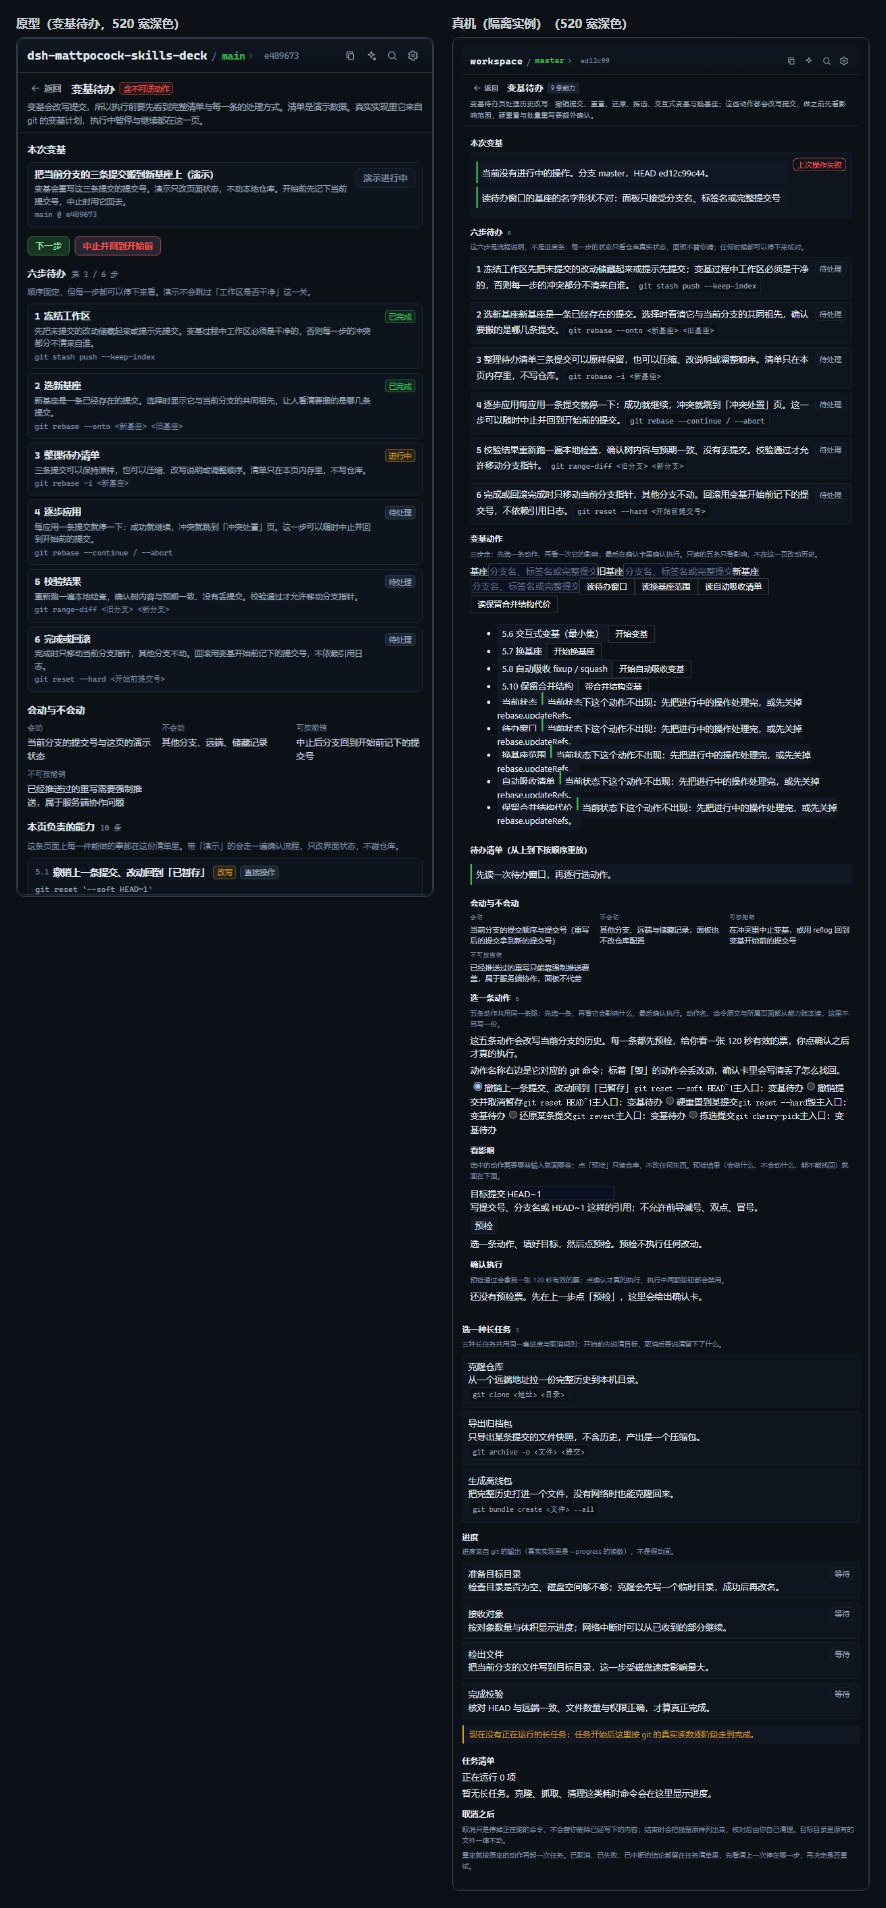
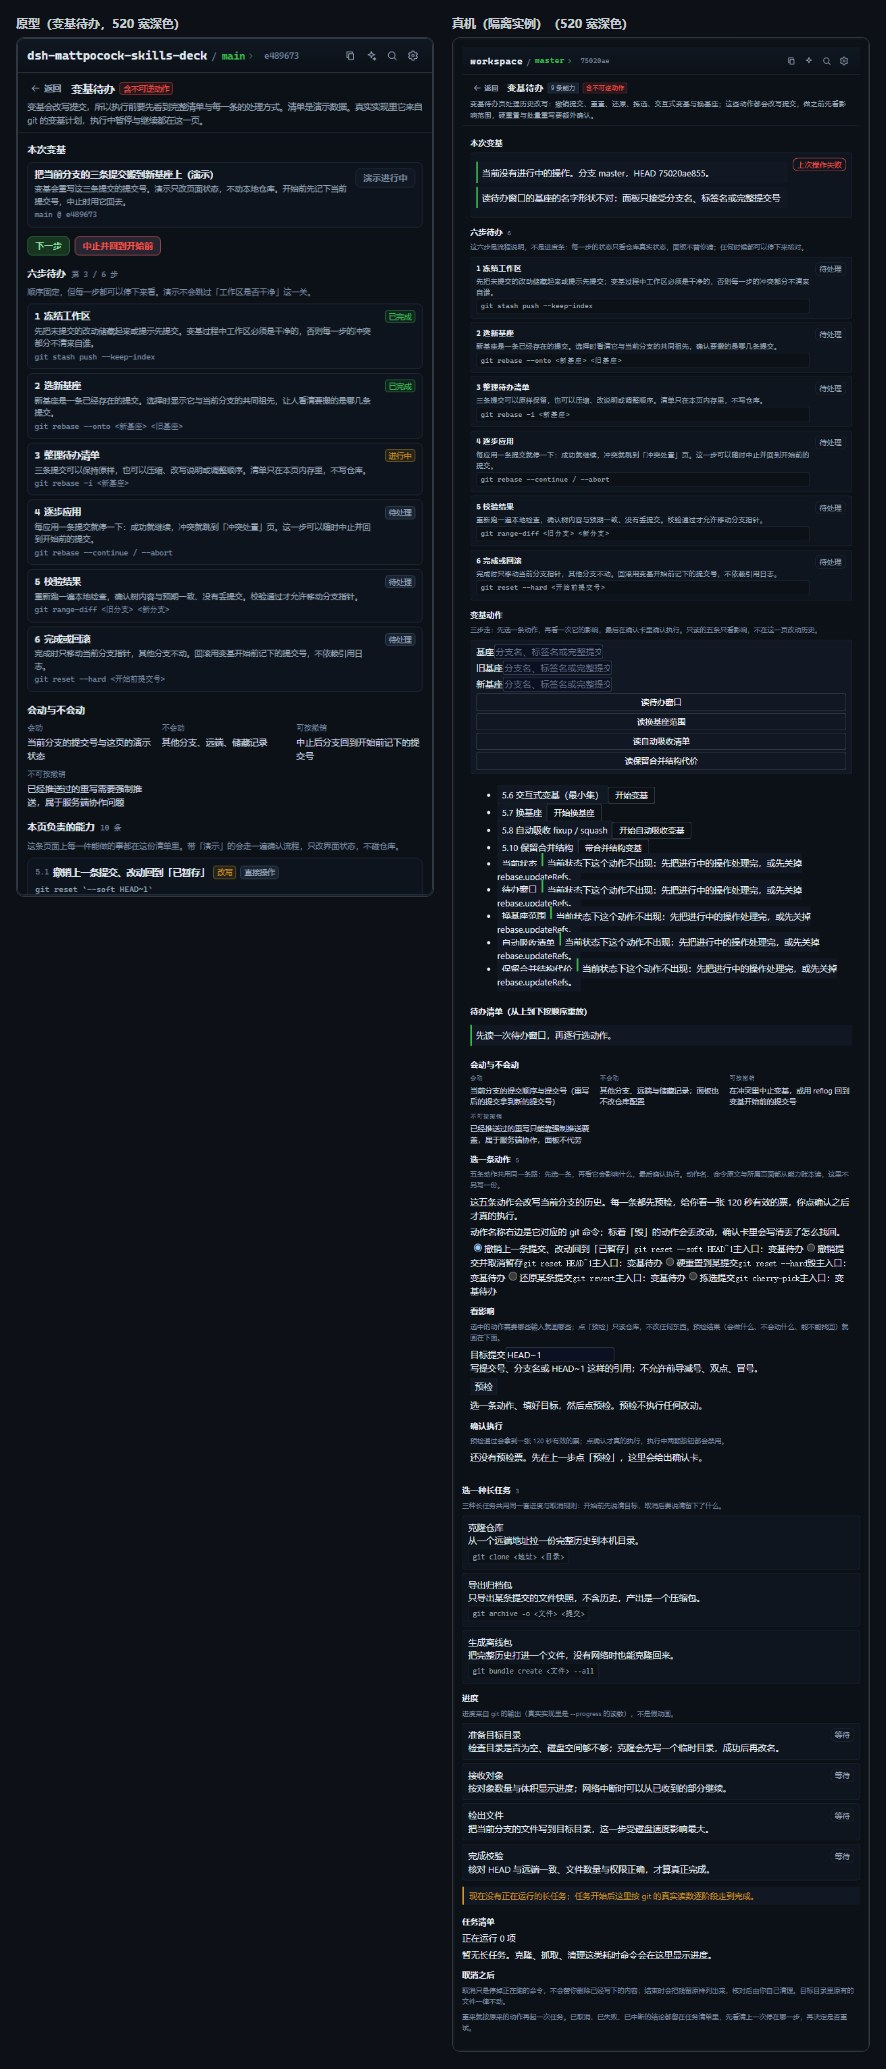
按评审补齐三处：变基与冲突页头加「含不可逆动作」、诊断页只读说明与查询按钮对齐、删掉一条测替身的断言（#1845、#1844）
- vcShellPages：原型 48 / 49 的 pageShell 带 danger: true，本产品页头只给维护页与迁移页加了红 chip，变基与冲突两页漏了。补上之后两页页头与原型一致（真机并排图已重出）。
- vcdiagnostics 的「只读对象查看」段说明原来写「不提供可操作按钮」，但每一行都有一次只读查询按钮；改成「每一行可以就地发起一次只读查询，结果贴在行内，不改仓库」，中英两段一起改。
- verify-881 里那条 typeof vcPickViewStateOf === 'function' 断的是本地替身自己，永远为真，删掉。

验证：verify-1586-rebase 268、verify-1586-conflicts 216、verify-1845-flow-pages 51、verify-818 787、verify-1586-vc-visual-browser 755、verify-1586-coverage 440 全过；真机场景在隔离实例重跑 24/24 通过，并排图已按新页头重出。

diff --git a/src/client/views/versionControl/vcShellPages.ts b/src/client/views/versionControl/vcShellPages.ts
@@ -204,7 +204,9 @@ export const vcPageBodyNode = function (h: any, t: any, o: any) {
   const head = Object.assign({}, vcPageHeadNode(h, t, {
     page: page, back: opts.back === true, backLog: opts.backLog,
     hideCount: opts.hideCount === true || page === 'branch-tags' || page === 'submodules' || page === 'maintenance' || page === 'migrate' || page === 'diagnostics' || page === 'platform',
-    danger: page === 'maintenance' || page === 'migrate',
+    // #1845：原型 48 / 49 的 pageShell 也带 danger: true（变基改写历史、冲突合并会改工作区），
+    // 页头因此给这两页同一枚「含不可逆动作」红 chip；任务页不动仓库，不给。
+    danger: page === 'maintenance' || page === 'migrate' || page === 'rebase' || page === 'conflicts',
   }), { key: 'meta' })
   if (!isTabPage) children.push.apply(children, vcPageNotesOf(h, t, page))
   // #1840 管理索引屏：页头之后整屏都是索引（说明句、九张卡、两条跨区入口、覆盖口径），

diff --git a/tests/verify-881-commit-open.ts b/tests/verify-881-commit-open.ts
@@ -21,7 +21,6 @@ async function main() {
   // 它只承担测试替身的角色，判断的是 vcDiffOps 传进来的 onView 是否被按原子切换执行。
   const vcPickViewStateOf = (ui, v) => ({ ...ui, view: v, openCommit: '' })
   check(typeof vcDiffOpsOf === 'function', '真源可加载：vcDiffOpsOf 存在')
-  check(typeof vcPickViewStateOf === 'function', '视图切换替身可用：vcPickViewStateOf 是本地实现（旧壳已删，见上方注释）')
   // 手动点页签仍清空：这是要保留的老约定，修完也不能丢。
   const cleared = vcPickViewStateOf({ view: 'commits', openCommit: 'abc', openDiff: '' }, 'changes')
   check(cleared.openCommit === '' && cleared.view === 'changes', '手动切页签仍离开详情（openCommit 被清空）')
